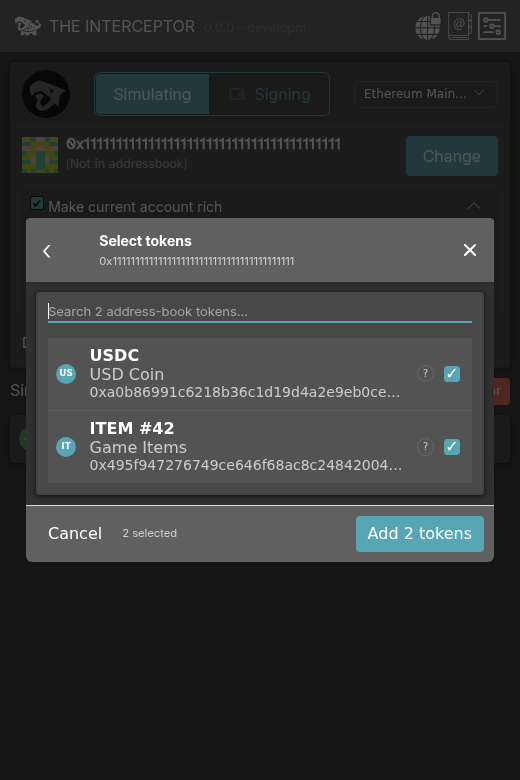
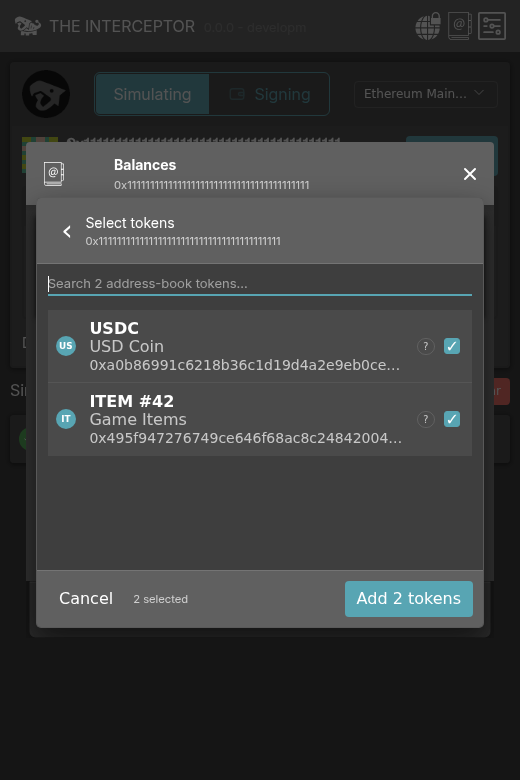
Layer token selection over rich balances

diff --git a/app/ts/components/pages/Home.tsx b/app/ts/components/pages/Home.tsx
@@ -641,73 +641,25 @@ function RichList({ makeCurrentAddressRich, richNativeAmount, nativeCurrencyTick
 				class = 'modal is-active rich-mode-modal-layer'
 				aria-modal = 'true'
 				role = 'dialog'
-				aria-label = { showRichTokenPicker.value ? `Select tokens for ${ selectedRichAccount.value.addressBookEntry.name }` : `Balance editor for ${ selectedRichAccount.value.addressBookEntry.name }` }
+				aria-label = { `Balance editor for ${ selectedRichAccount.value.addressBookEntry.name }` }
 				onKeyDown = { event => {
 					if (event.key !== 'Escape' || richTokenPending.value) return
 					showRichTokenPicker.value ? hideRichTokenSelection() : closeRichBalanceDialog()
 				} }
 			>
 				<div class = 'modal-background' onClick = { closeRichBalanceDialog }/>
-				<div class = 'modal-card rich-mode-modal-card'>
+				<div class = { `modal-card rich-mode-modal-card${ showRichTokenPicker.value ? ' is-selecting-tokens' : '' }` }>
 					<header class = 'modal-card-head card-header interceptor-modal-head window-header rich-mode-modal-head'>
-						{ showRichTokenPicker.value
-							? <button type = 'button' class = 'card-header-icon rich-mode-modal-back' aria-label = 'Back to balances' disabled = { richTokenPending.value } onClick = { hideRichTokenSelection }>‹</button>
-							: <div class = 'card-header-icon unset-cursor'><span class = 'icon'><img src = '../img/address-book.svg' width = '24' height = '24'/></span></div>
-						}
+						<div class = 'card-header-icon unset-cursor'><span class = 'icon'><img src = '../img/address-book.svg' width = '24' height = '24'/></span></div>
 						<div class = 'card-header-title'>
-							<p class = 'paragraph'>{ showRichTokenPicker.value ? 'Select tokens' : 'Balances' }</p>
+							<p class = 'paragraph'>Balances</p>
 							<p class = 'rich-mode-modal-account'>{ selectedRichAccount.value.addressBookEntry.name }</p>
 						</div>
 						<button type = 'button' class = 'card-header-icon' aria-label = 'Close balance editor' disabled = { richTokenPending.value } onClick = { closeRichBalanceDialog }><XMarkIcon/></button>
 					</header>
 					<section class = 'modal-card-body'>
 						<div class = 'card rich-mode-modal-content'>
-							<div class = 'card-content'>
-							{ showRichTokenPicker.value ? <>
-								<div class = 'field rich-mode-token-search'>
-									<div class = 'control'>
-										<input
-											class = 'input'
-											type = 'search'
-											autoFocus = { true }
-											aria-label = 'Search address-book tokens'
-											placeholder = { `Search ${ availableRichTokens.value.length.toString() } address-book token${ availableRichTokens.value.length === 1 ? '' : 's' }…` }
-											disabled = { richTokenPending.value }
-											value = { richTokenSearch.value }
-											onInput = { event => { richTokenSearch.value = event.currentTarget.value } }
-										/>
-									</div>
-								</div>
-								<div aria-label = 'Matching address-book tokens' class = 'rich-mode-token-results'>
-									{ matchingAvailableRichTokens.value.map((option) => {
-										const selected = selectedRichTokenKeys.value.includes(getRichTokenKey(option))
-										return <button
-											type = 'button'
-											data-rich-token-result = { getRichTokenKey(option) }
-											class = { `btn btn--ghost rich-mode-token-result${ selected ? ' is-selected' : '' }` }
-											disabled = { richTokenPending.value }
-											aria-label = { `Select rich token ${ getRichTokenLabel(option) } ${ addressString(option.tokenAddress) }` }
-											aria-pressed = { selected }
-											onClick = { () => { toggleRichTokenSelection(option) } }
-											key = { getRichTokenKey(option) }
-										>
-											<RichTokenIcon class = 'rich-mode-token-result-icon' label = { option.symbol } logoUri = { option.logoUri }/>
-											<span class = 'rich-mode-token-result-details'>
-												<strong>{ getRichTokenLabel(option) }</strong>
-												<span>{ option.name }</span>
-												<small>{ addressString(option.tokenAddress) }</small>
-											</span>
-											<span
-												class = { `rich-mode-token-layout-status${ option.balanceSlot === undefined ? '' : ' is-ready' }` }
-												aria-label = { option.balanceSlot === undefined ? 'Storage discovery required' : 'Storage layout ready' }
-												data-tooltip = { option.balanceSlot === undefined ? 'Storage discovery required' : 'Storage layout ready' }
-											>{ option.balanceSlot === undefined ? '?' : '✓' }</span>
-											<span class = 'rich-mode-token-selection-mark' aria-hidden = 'true'>{ selected ? '✓' : '' }</span>
-										</button>
-									}) }
-									{ matchingAvailableRichTokens.value.length === 0 ? <p class = 'help'>No matching tokens in the active-chain address book.</p> : <></> }
-								</div>
-							</> : <>
+							<div class = { `card-content rich-mode-balance-page${ showRichTokenPicker.value ? ' is-recessed' : '' }` } aria-hidden = { showRichTokenPicker.value ? 'true' : undefined } inert = { showRichTokenPicker.value }>
 								{ richAccounts.value.length < 2 ? <></> : <div class = 'rich-mode-account-switcher' aria-label = 'Rich account navigation'>
 									<button type = 'button' class = 'btn btn--ghost is-small' aria-label = 'Previous rich account' disabled = { richTokenPending.value } onClick = { () => { showAdjacentRichAccount(-1) } }>‹</button>
 									<span>{ (selectedRichAccountIndex.value + 1).toString() } of { richAccounts.value.length.toString() }</span>
@@ -744,19 +696,71 @@ function RichList({ makeCurrentAddressRich, richNativeAmount, nativeCurrencyTick
 										</div>) }
 									</div>
 								</> }
-							</> }
-							{ richTokenPendingLabel.value === undefined ? <></> : <p class = 'help is-light' role = 'status'>{ richTokenPendingLabel.value }</p> }
-							{ richTokenError.value === undefined ? <></> : <p class = 'help is-danger'>{ richTokenError.value }</p> }
+							{ showRichTokenPicker.value || richTokenPendingLabel.value === undefined ? <></> : <p class = 'help is-light' role = 'status'>{ richTokenPendingLabel.value }</p> }
+							{ showRichTokenPicker.value || richTokenError.value === undefined ? <></> : <p class = 'help is-danger'>{ richTokenError.value }</p> }
 							</div>
 						</div>
 					</section>
-					<footer class = 'modal-card-foot window-footer rich-mode-modal-footer'>
-						{ showRichTokenPicker.value ? <>
+					<footer class = { `modal-card-foot window-footer rich-mode-modal-footer${ showRichTokenPicker.value ? ' is-recessed' : '' }` } aria-hidden = { showRichTokenPicker.value ? 'true' : undefined } inert = { showRichTokenPicker.value }>
+						<button type = 'button' class = 'btn btn--outline' disabled = { richTokenPending.value } onClick = { closeRichBalanceDialog }>Close</button>
+					</footer>
+					{ !showRichTokenPicker.value ? <></> : <section class = 'rich-mode-token-sheet' role = 'region' aria-label = { `Select tokens for ${ selectedRichAccount.value.addressBookEntry.name }` }>
+						<header class = 'rich-mode-token-sheet-head'>
+							<button type = 'button' class = 'btn btn--ghost rich-mode-modal-back' aria-label = 'Back to balances' disabled = { richTokenPending.value } onClick = { hideRichTokenSelection }>‹</button>
+							<div>
+								<p class = 'paragraph'>Select tokens</p>
+								<p class = 'rich-mode-modal-account'>{ selectedRichAccount.value.addressBookEntry.name }</p>
+							</div>
+						</header>
+						<div class = 'rich-mode-token-sheet-body'>
+							<div class = 'field rich-mode-token-search'>
+								<div class = 'control'>
+									<input
+										class = 'input'
+										type = 'search'
+										autoFocus = { true }
+										aria-label = 'Search address-book tokens'
+										placeholder = { `Search ${ availableRichTokens.value.length.toString() } address-book token${ availableRichTokens.value.length === 1 ? '' : 's' }…` }
+										disabled = { richTokenPending.value }
+										value = { richTokenSearch.value }
+										onInput = { event => { richTokenSearch.value = event.currentTarget.value } }
+									/>
+								</div>
+							</div>
+							<div aria-label = 'Matching address-book tokens' class = 'rich-mode-token-results'>
+								{ matchingAvailableRichTokens.value.map((option) => {
+									const selected = selectedRichTokenKeys.value.includes(getRichTokenKey(option))
+									return <button
+										type = 'button'
+										data-rich-token-result = { getRichTokenKey(option) }
+										class = { `btn btn--ghost rich-mode-token-result${ selected ? ' is-selected' : '' }` }
+										disabled = { richTokenPending.value }
+										aria-label = { `Select rich token ${ getRichTokenLabel(option) } ${ addressString(option.tokenAddress) }` }
+										aria-pressed = { selected }
+										onClick = { () => { toggleRichTokenSelection(option) } }
+										key = { getRichTokenKey(option) }
+									>
+										<RichTokenIcon class = 'rich-mode-token-result-icon' label = { option.symbol } logoUri = { option.logoUri }/>
+										<span class = 'rich-mode-token-result-details'>
+											<strong>{ getRichTokenLabel(option) }</strong>
+											<span>{ option.name }</span>
+											<small>{ addressString(option.tokenAddress) }</small>
+										</span>
+										<span class = { `rich-mode-token-layout-status${ option.balanceSlot === undefined ? '' : ' is-ready' }` } aria-label = { option.balanceSlot === undefined ? 'Storage discovery required' : 'Storage layout ready' } data-tooltip = { option.balanceSlot === undefined ? 'Storage discovery required' : 'Storage layout ready' }>{ option.balanceSlot === undefined ? '?' : '✓' }</span>
+										<span class = 'rich-mode-token-selection-mark' aria-hidden = 'true'>{ selected ? '✓' : '' }</span>
+									</button>
+								}) }
+								{ matchingAvailableRichTokens.value.length === 0 ? <p class = 'help'>No matching tokens in the active-chain address book.</p> : <></> }
+							</div>
+							{ richTokenPendingLabel.value === undefined ? <></> : <p class = 'help is-light' role = 'status'>{ richTokenPendingLabel.value }</p> }
+							{ richTokenError.value === undefined ? <></> : <p class = 'help is-danger'>{ richTokenError.value }</p> }
+						</div>
+						<footer class = 'rich-mode-token-sheet-footer'>
 							<button type = 'button' class = 'btn btn--ghost' disabled = { richTokenPending.value } onClick = { hideRichTokenSelection }>Cancel</button>
 							<span class = 'rich-mode-token-selection-count'>{ selectedAvailableRichTokens.value.length.toString() } selected</span>
 							<button type = 'button' class = 'btn btn--primary' aria-label = 'Add selected tokens' disabled = { richTokenPending.value || selectedAvailableRichTokens.value.length === 0 } onClick = { () => { void addSelectedRichTokens() } }>Add { selectedAvailableRichTokens.value.length === 0 ? '' : selectedAvailableRichTokens.value.length.toString() } token{ selectedAvailableRichTokens.value.length === 1 ? '' : 's' }</button>
-						</> : <button type = 'button' class = 'btn btn--outline' disabled = { richTokenPending.value } onClick = { closeRichBalanceDialog }>Close</button> }
-					</footer>
+						</footer>
+					</section> }
 				</div>
 			</div>
 		}

diff --git a/test/tests/richTokens.test.ts b/test/tests/richTokens.test.ts
@@ -1,6 +1,7 @@
 import assert from 'node:assert'
 import { describe, test } from 'node:test'
 import type { IEthereumClientService } from '../../app/ts/simulation/services/EthereumClientService.js'
+import { MAKE_YOU_RICH_TRANSACTION } from '../../app/ts/utils/constants.js'
 import { addRichAccountBalanceOverrides, addRichTokenBalanceOverrides, discoverErc1155BalanceStorage, discoverErc20BalanceStorageSlot, getDefaultRichTokenAmount, getErc1155BalanceStorageKey, getErc20BalanceStorageKey, getMatchingRichTokenOptions, getRichTokenOptions, MAX_RICH_TOKEN_AMOUNT, parseRichTokenAmountInput, verifyErc1155BalanceStorageSlot, verifyErc20BalanceStorageSlot } from '../../app/ts/utils/richTokens.js'
 import { addressString, bigintToUint8Array, bytes32String } from '../../app/ts/utils/bigint.js'
 
@@ -25,6 +26,13 @@ const successfulBalanceCall = (balance: bigint) => ({
 })
 
 describe('rich token support', () => {
+	test('defaults native and token rich balances to 200,000 whole units', () => {
+		assert.equal(MAKE_YOU_RICH_TRANSACTION.transaction.value, 200_000n * 10n ** 18n)
+		assert.equal(getDefaultRichTokenAmount(18n), 200_000n * 10n ** 18n)
+		assert.equal(getDefaultRichTokenAmount(6n), 200_000n * 10n ** 6n)
+		assert.equal(getDefaultRichTokenAmount(0n), 200_000n)
+	})
+
 	test('searches large address-book token lists and bounds rendered results', () => {
 		const options = Array.from({ length: 75 }, (_, index) => ({
 			chainId: 1n,
@@ -79,7 +87,7 @@ describe('rich token support', () => {
 			symbol: 'USDC',
 			decimals: 6n,
 			logoUri: 'https://example.invalid/usdc.svg',
-			amount: 1_000_000_000_000n,
+			amount: 200_000_000_000n,
 			balanceSlot: undefined,
 			erc1155StorageOrder: undefined,
 			enabled: false,
@@ -169,8 +177,8 @@ describe('rich token support', () => {
 		}])
 
 		assert.deepEqual(options.map(({ tokenType, tokenId, decimals, amount }) => ({ tokenType, tokenId, decimals, amount })), [
-			{ tokenType: 'ERC1155', tokenId: 7n, decimals: 0n, amount: 1_000_000n },
-			{ tokenType: 'ERC1155', tokenId: 42n, decimals: 0n, amount: 1_000_000n },
+			{ tokenType: 'ERC1155', tokenId: 7n, decimals: 0n, amount: 200_000n },
+			{ tokenType: 'ERC1155', tokenId: 42n, decimals: 0n, amount: 200_000n },
 		])
 	})
 

diff --git a/app/css/interceptor.css b/app/css/interceptor.css
@@ -3256,7 +3256,12 @@ header:has(form[role='search']) h1 {
 
 .rich-mode-modal-card {
 	max-height: calc(100% - 2rem);
+	position: relative;
 	width: calc(100% - 2rem);
+}
+
+.rich-mode-modal-card.is-selecting-tokens {
+	min-height: min(31rem, calc(100% - 2rem));
 }
 
 .rich-mode-modal-back {
@@ -3291,6 +3296,69 @@ header:has(form[role='search']) h1 {
 	display: flex;
 	flex-direction: column;
 	min-height: 0;
+}
+
+.rich-mode-balance-page,
+.rich-mode-modal-footer {
+	transition: opacity 140ms ease, transform 140ms ease;
+}
+
+.rich-mode-balance-page.is-recessed,
+.rich-mode-modal-footer.is-recessed {
+	opacity: 0.28;
+	transform: scale(0.985);
+}
+
+.rich-mode-token-sheet {
+	background-color: var(--card-bg-color);
+	border: 1px solid var(--white-alpha-20);
+	border-radius: 5px;
+	bottom: 0.65rem;
+	box-shadow: 0 12px 28px rgba(0, 0, 0, 0.55);
+	display: grid;
+	grid-template-rows: min-content minmax(0, 1fr) min-content;
+	left: 0.65rem;
+	overflow: hidden;
+	position: absolute;
+	right: 0.65rem;
+	top: 3.45rem;
+	z-index: 5;
+}
+
+.rich-mode-token-sheet-head {
+	align-items: center;
+	background-color: var(--window-header-bg-color);
+	border-bottom: 1px solid var(--white-alpha-20);
+	display: grid;
+	grid-template-columns: 2.5rem minmax(0, 1fr);
+	min-height: 3.25rem;
+	padding: 0 0.5rem;
+}
+
+.rich-mode-token-sheet-head > div {
+	min-width: 0;
+}
+
+.rich-mode-token-sheet-body {
+	background-color: var(--surface-mid-color);
+	display: flex;
+	flex-direction: column;
+	min-height: 0;
+	overflow: hidden;
+	padding: 0.65rem;
+}
+
+.rich-mode-token-sheet-body .rich-mode-token-results {
+	flex: 1 1 auto;
+	max-height: none;
+}
+
+.rich-mode-token-sheet-footer {
+	align-items: center;
+	background-color: var(--window-header-bg-color);
+	border-top: 1px solid var(--white-alpha-20);
+	display: flex;
+	padding: 0.6rem;
 }
 
 .rich-mode-account-switcher {

diff --git a/test/tests/popupIconResync.test.ts b/test/tests/popupIconResync.test.ts
@@ -1201,7 +1201,11 @@ describe('popup icon sync', () => {
 				if (chooseTokenButton !== undefined) await clickElement(chooseTokenButton)
 			})
 			assert.equal(hasAriaLabel(dom.document.body, 'Select tokens for Second Account'), true)
-			assert.equal(hasAriaLabel(dom.document.body, 'Balance editor for Second Account'), false)
+			assert.equal(hasAriaLabel(dom.document.body, 'Balance editor for Second Account'), true)
+			const recessedBalancePage = collectElements(dom.document.body, 'div').find((element) => hasClass(element, 'rich-mode-balance-page'))
+			assert.equal(recessedBalancePage?.getAttribute?.('aria-hidden'), 'true')
+			assert.equal(recessedBalancePage?.getAttribute?.('inert'), true)
+			assert.equal(hasAriaLabel(dom.document.body, 'Configured rich tokens'), true)
 			assert.equal(collectElements(dom.document.body, 'div').filter((element) => element.getAttribute?.('aria-modal') === 'true').length, 1)
 			const tokenSearch = collectElements(dom.document.body, 'input').find((input) => input.getAttribute?.('aria-label') === 'Search address-book tokens')
 			assert.equal(tokenSearch?.getAttribute?.('placeholder'), 'Search 2 address-book tokens…')
@@ -1274,7 +1278,7 @@ describe('popup icon sync', () => {
 			await act(async () => { await clickElement(chooseTokenButton) })
 			assert.equal(hasAriaLabel(dom.document.body, 'Select tokens for Loaded Account'), true)
 			assert.equal(collectElements(dom.document.body, 'div').filter((element) => element.getAttribute?.('aria-modal') === 'true').length, 1)
-			assert.equal(hasAriaLabel(dom.document.body, 'Balance editor for Loaded Account'), false)
+			assert.equal(hasAriaLabel(dom.document.body, 'Balance editor for Loaded Account'), true)
 
 			await act(() => {
 				listener?.({

diff --git a/test/benchmarks/richModeScreenshot.ts b/test/benchmarks/richModeScreenshot.ts
@@ -224,6 +224,16 @@ try {
 	await clickAriaLabel(popup, 'Select tokens')
 	await waitForCondition(popup, '80-token search', `document.querySelector('[aria-label="Search address-book tokens"]')?.getAttribute('placeholder')?.includes('80 address-book tokens') === true`)
 	await waitForCondition(popup, 'bounded initial token results', `document.querySelectorAll('[data-rich-token-result]').length === 50`)
+	await waitForCondition(popup, 'scrollable token results', `(() => {
+		const results = document.querySelector('[aria-label="Matching address-book tokens"]')
+		if (!(results instanceof HTMLElement) || results.scrollHeight <= results.clientHeight) return false
+		results.scrollTop = results.scrollHeight
+		return results.scrollTop > 0
+	})()`)
+	await popup.evaluate(`(() => {
+		const results = document.querySelector('[aria-label="Matching address-book tokens"]')
+		if (results instanceof HTMLElement) results.scrollTop = 0
+	})()`)
 	await sleep(250)
 	await captureScreenshot(popup, manyTokenPickerScreenshotPath)
 	await searchToken(popup, searchableTokenAddress)

diff --git a/app/ts/utils/richTokens.ts b/app/ts/utils/richTokens.ts
@@ -9,7 +9,7 @@ import { addressString, bytes32String, stringToUint8Array } from './bigint.js'
 import { keccak256 } from './ethereumPrimitives.js'
 import { parseUnits } from './ethereumUnits.js'
 
-const DEFAULT_RICH_TOKEN_COUNT = 1_000_000n
+const DEFAULT_RICH_TOKEN_COUNT = 200_000n
 export const MAX_RICH_TOKEN_AMOUNT = 2n ** 256n - 1n
 export const MAX_SUPPORTED_RICH_TOKEN_DECIMALS = 255n
 const MAX_DECIMALS_BEFORE_DEFAULT_AMOUNT_EXCEEDS_UINT256 = 71n
